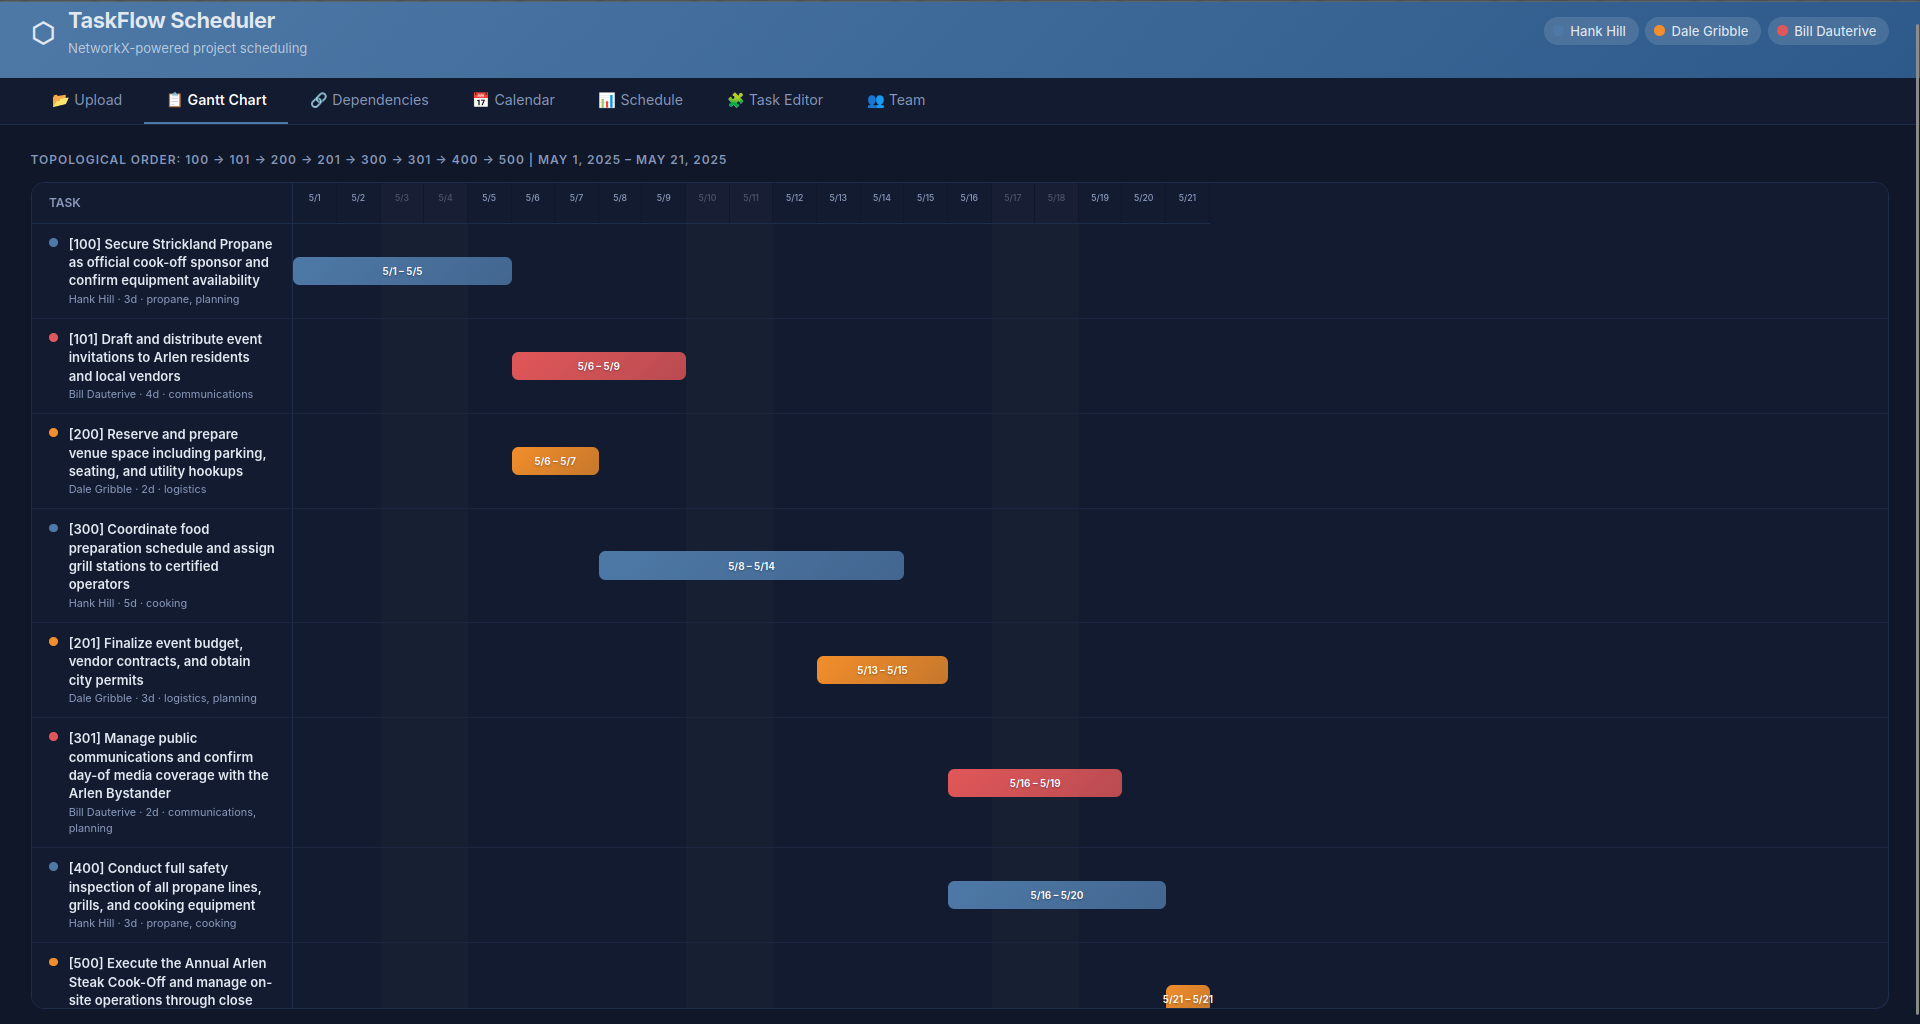
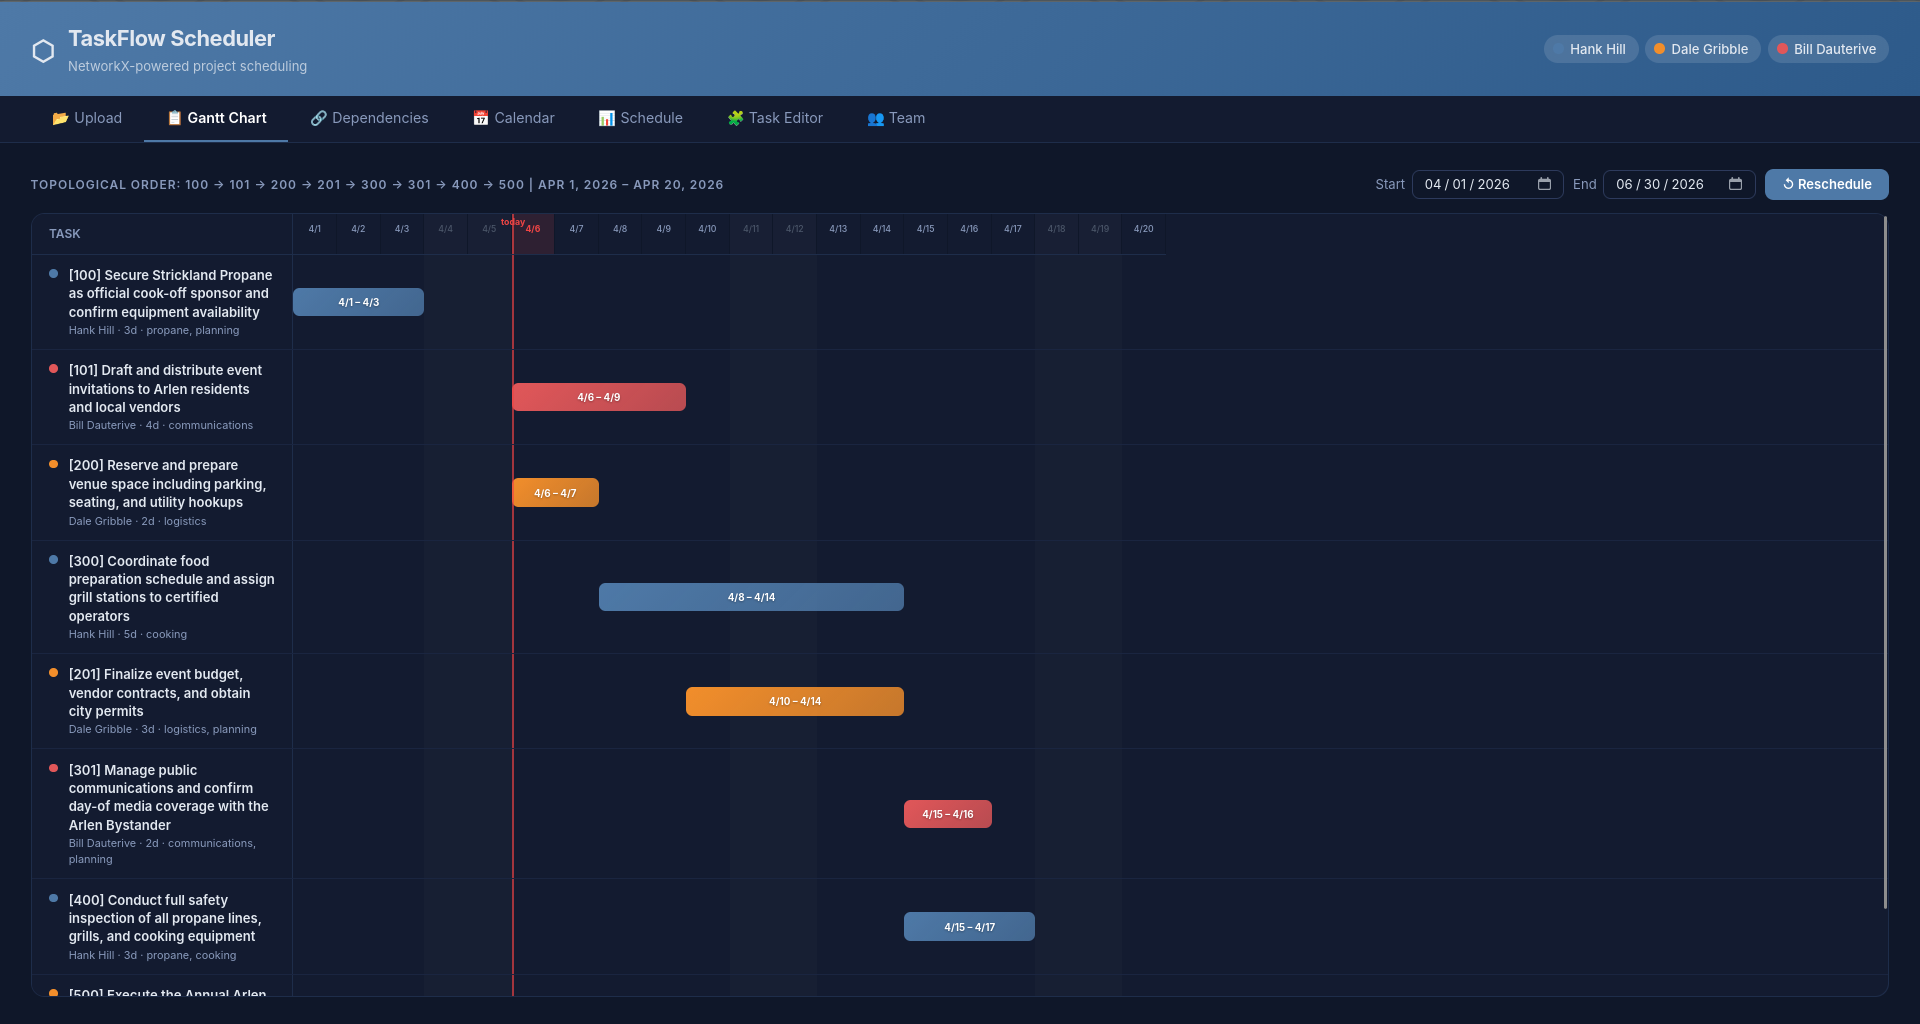
Included warning messaages and deadlinea adjustment

diff --git a/templates/index.html b/templates/index.html
@@ -265,8 +265,19 @@ button{font-family:inherit;cursor:pointer}
 
   <!-- Gantt Tab -->
   <div class="tab-panel" id="panel-gantt">
-    <div class="section-label" id="ganttLabel"></div>
-    <div class="card" id="ganttChart" style="overflow:auto;max-height:calc(100vh - 180px);"></div>
+    <div style="display:flex;align-items:center;gap:12px;margin-bottom:12px;flex-wrap:wrap;">
+      <div class="section-label" id="ganttLabel" style="margin:0;flex:1;min-width:200px;"></div>
+      <div style="display:flex;align-items:center;gap:8px;flex-wrap:wrap;">
+        <label style="display:flex;align-items:center;gap:6px;font-size:12px;color:var(--text-muted);">
+          Start <input type="date" id="reschedStart" class="form-input" style="padding:5px 8px;font-size:12px;width:140px;">
+        </label>
+        <label style="display:flex;align-items:center;gap:6px;font-size:12px;color:var(--text-muted);">
+          End <input type="date" id="reschedEnd" class="form-input" style="padding:5px 8px;font-size:12px;width:140px;">
+        </label>
+        <button class="btn btn-accent" style="padding:7px 16px;font-size:12px;" onclick="reschedule()">↺ Reschedule</button>
+      </div>
+    </div>
+    <div class="card" id="ganttChart" style="overflow:auto;max-height:calc(100vh - 220px);"></div>
   </div>
 
   <!-- Graph Tab -->
@@ -610,6 +621,41 @@ function renderAll() {
   renderGraph();
   renderCalendar();
   renderTable();
+  // Populate reschedule date fields from current schedule
+  if (STATE.project_start) {
+    document.getElementById('reschedStart').value = STATE.project_start;
+    document.getElementById('reschedEnd').value   = STATE.project_end;
+  }
+}
+
+/* ── Reschedule ──────────────────────────────── */
+async function reschedule() {
+  const start = document.getElementById('reschedStart').value;
+  const end   = document.getElementById('reschedEnd').value;
+  if (!start || !end) { alert('Please set both a start and end date.'); return; }
+  if (end < start) { alert('End date must be on or after start date.'); return; }
+
+  const btn = document.querySelector('#panel-gantt .btn-accent');
+  const origText = btn.textContent;
+  btn.disabled = true;
+  btn.textContent = '…';
+
+  try {
+    const resp = await fetch('/api/reschedule', {
+      method: 'POST',
+      headers: { 'Content-Type': 'application/json' },
+      body: JSON.stringify({ start_date: start, end_date: end }),
+    });
+    const data = await resp.json();
+    if (data.error) { alert('Error: ' + data.error); return; }
+    STATE = data;
+    renderAll();
+  } catch (e) {
+    alert('Request failed: ' + e.message);
+  } finally {
+    btn.disabled = false;
+    btn.textContent = origText;
+  }
 }
 
 function fmtDate(iso) { const d = new Date(iso + 'T00:00:00'); return `${d.getMonth()+1}/${d.getDate()}`; }

diff --git a/webapp.py b/webapp.py
@@ -159,6 +159,121 @@ def api_raw_data():
     return jsonify(_last_raw_data)
 
 
+@app.route("/api/reschedule", methods=["POST"])
+def api_reschedule():
+    """Re-run the scheduler with updated start/end dates using cached data."""
+    global _last_raw_data
+    from scheduler import Member, Task, schedule, generate_calendar_links
+    if not _last_raw_data:
+        return jsonify({"error": "No schedule loaded yet. Upload and run a file first."}), 404
+
+    body = request.get_json(silent=True) or {}
+    raw_start = body.get("start_date")
+    raw_end = body.get("end_date")
+    if not raw_start or not raw_end:
+        return jsonify({"error": "start_date and end_date are required"}), 400
+
+    try:
+        from scheduler import _parse_date
+        project_start = _parse_date(raw_start)
+        project_end = _parse_date(raw_end)
+    except ValueError as e:
+        return jsonify({"error": str(e)}), 400
+
+    try:
+        members = [
+            Member(
+                name=m["name"],
+                areas=m["areas"],
+                unavailable=[
+                    (dt.date.fromisoformat(s), dt.date.fromisoformat(e))
+                    for s, e in m.get("dates_unavailable", [])
+                ],
+            )
+            for m in _last_raw_data["members"]
+        ]
+        tasks = [
+            Task(
+                id=t["id"],
+                description=t["description"],
+                areas=t["areas"],
+                dependencies=t["dependencies"],
+                estimated_days=t["estimated_days"],
+            )
+            for t in _last_raw_data["tasks"]
+        ]
+        data = {
+            "start": project_start,
+            "end": project_end,
+            "max_tasks": _last_raw_data.get("maximum_tasks", 2),
+            "members": members,
+            "tasks": tasks,
+        }
+
+        _last_raw_data = {
+            **_last_raw_data,
+            "start_date": project_start.strftime("%m/%d/%Y"),
+            "end_date": project_end.strftime("%m/%d/%Y"),
+        }
+
+        result = schedule(data)
+        sid = os.urandom(8).hex()
+        _results_cache[sid] = result
+
+        tasks_out = []
+        for t in sorted(result.tasks, key=lambda t: (t.start_date or dt.date.max)):
+            preds = list(result.graph.predecessors(t.id))
+            succs = list(result.graph.successors(t.id))
+            tasks_out.append({
+                "id": t.id,
+                "description": t.description,
+                "areas": t.areas,
+                "dependencies": t.dependencies,
+                "assigned_to": t.assigned_to or "Unassigned",
+                "start_date": t.start_date.isoformat() if t.start_date else None,
+                "end_date": t.end_date.isoformat() if t.end_date else None,
+                "estimated_days": t.estimated_days,
+                "predecessors": preds,
+                "successors": succs,
+            })
+
+        palette = ["#4E79A7", "#F28E2B", "#E15759", "#76B7B2", "#59A14F",
+                   "#EDC948", "#B07AA1", "#FF9DA7", "#9C755F", "#BAB0AC"]
+        members_out = [{"name": m.name, "areas": m.areas, "color": palette[i % len(palette)]}
+                       for i, m in enumerate(result.members)]
+        member_colors = {m["name"]: m["color"] for m in members_out}
+        for t in tasks_out:
+            t["color"] = member_colors.get(t["assigned_to"], "#999999")
+
+        cal_links = generate_calendar_links(result)
+        cal_data = [
+            {
+                "task_id": lnk["task_id"],
+                "description": lnk["description"],
+                "assigned_to": lnk["assigned_to"],
+                "start": lnk["start"].isoformat(),
+                "end": lnk["end"].isoformat(),
+                "google_url": lnk["google_url"],
+                "outlook_url": lnk["outlook_url"],
+            }
+            for lnk in cal_links
+        ]
+
+        return jsonify({
+            "session_id": sid,
+            "tasks": tasks_out,
+            "members": members_out,
+            "topo_order": result.topo_order,
+            "warnings": result.warnings,
+            "project_start": result.project_start.isoformat(),
+            "project_end": result.project_end.isoformat(),
+            "calendar_links": cal_data,
+        })
+
+    except Exception as e:
+        return jsonify({"error": str(e)}), 400
+
+
 def run_webapp(port=5000, debug=False):
     """Launch the Flask web app."""
     import webbrowser, threading

diff --git a/README.md b/README.md
@@ -63,6 +63,16 @@ Displays a color-coded horizontal Gantt chart of the full schedule.
 - Hover over a row to highlight it.
 - Scroll horizontally to see the full project timeline.
 
+Use the **Start** and **End** date pickers at the top of the tab to change the project date window, then click **↺ Reschedule** to re-run the scheduler with the new dates without re-uploading your file.
+
+**Warning messages** appear in a yellow bar below the tab bar whenever the scheduler detects a problem. Common warnings include:
+
+- **No qualified member** — a task's required areas don't match any team member's areas, so the task was left unassigned.
+- **Unknown dependency** — a task lists a dependency ID that doesn't exist in the task list; that edge is skipped.
+- **Task may miss deadline** — a task's calculated end date falls after the project end date.
+
+Warnings do not stop the scheduler from producing a result, but tasks that trigger them may appear with missing dates or be unassigned in the output.
+
 ---
 
 ### Dependencies Tab
